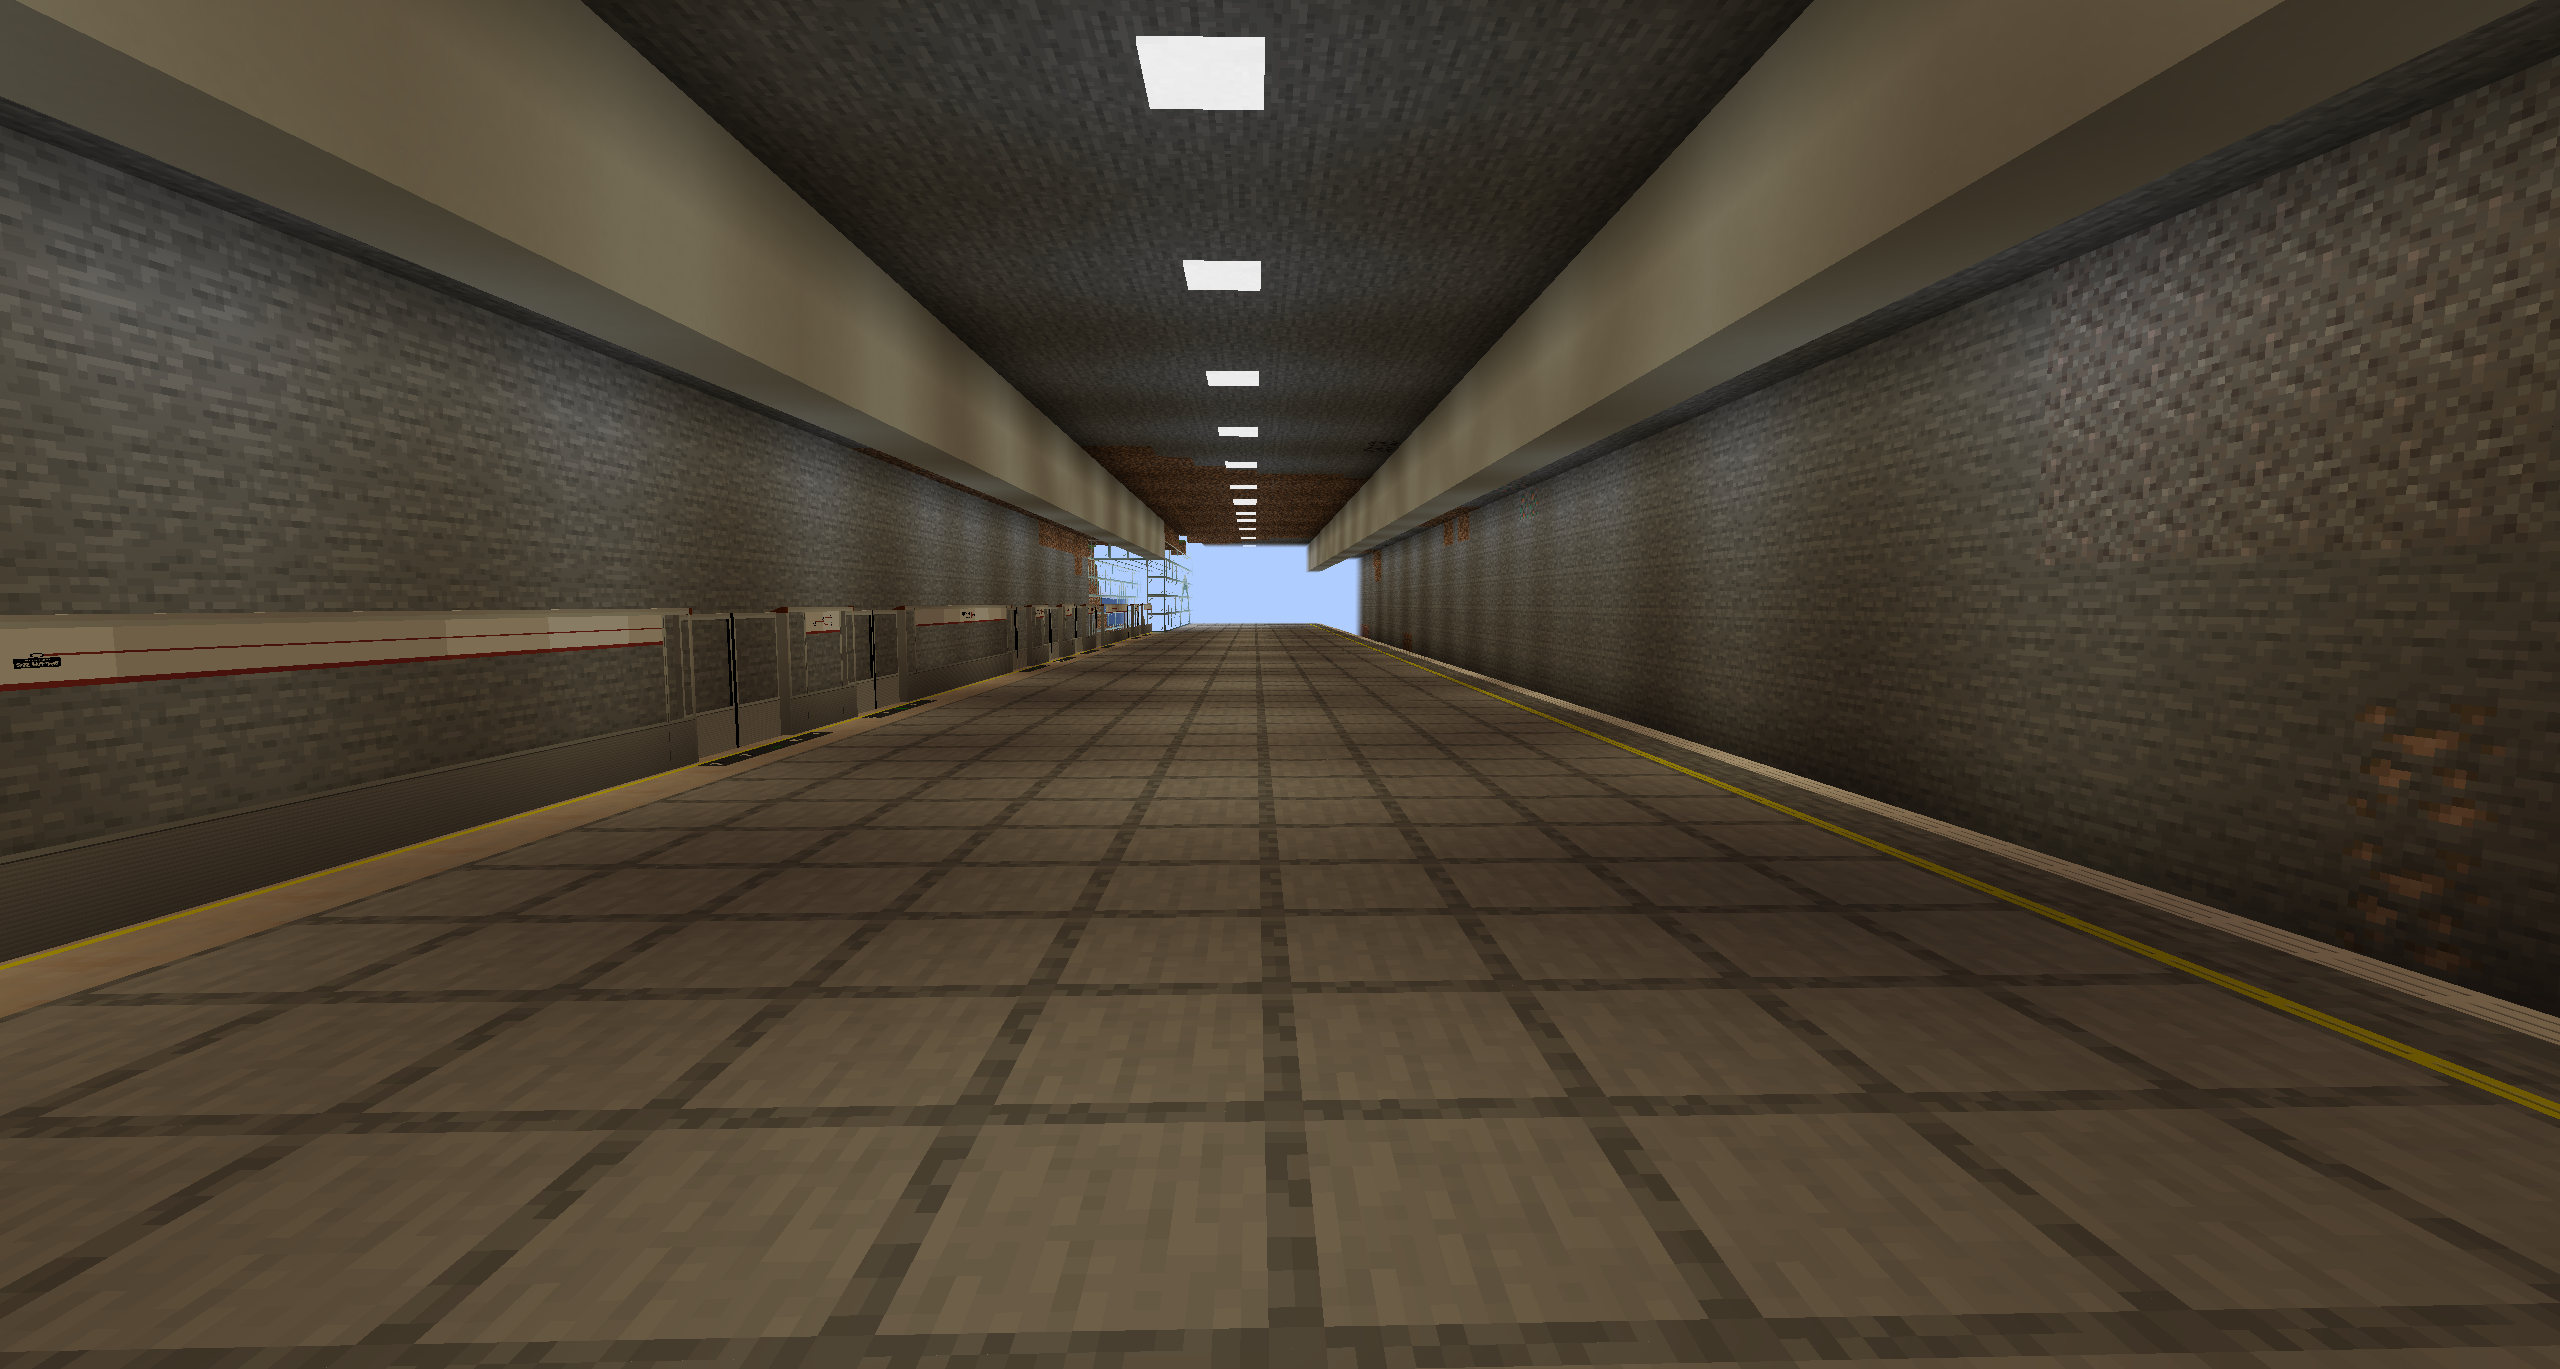
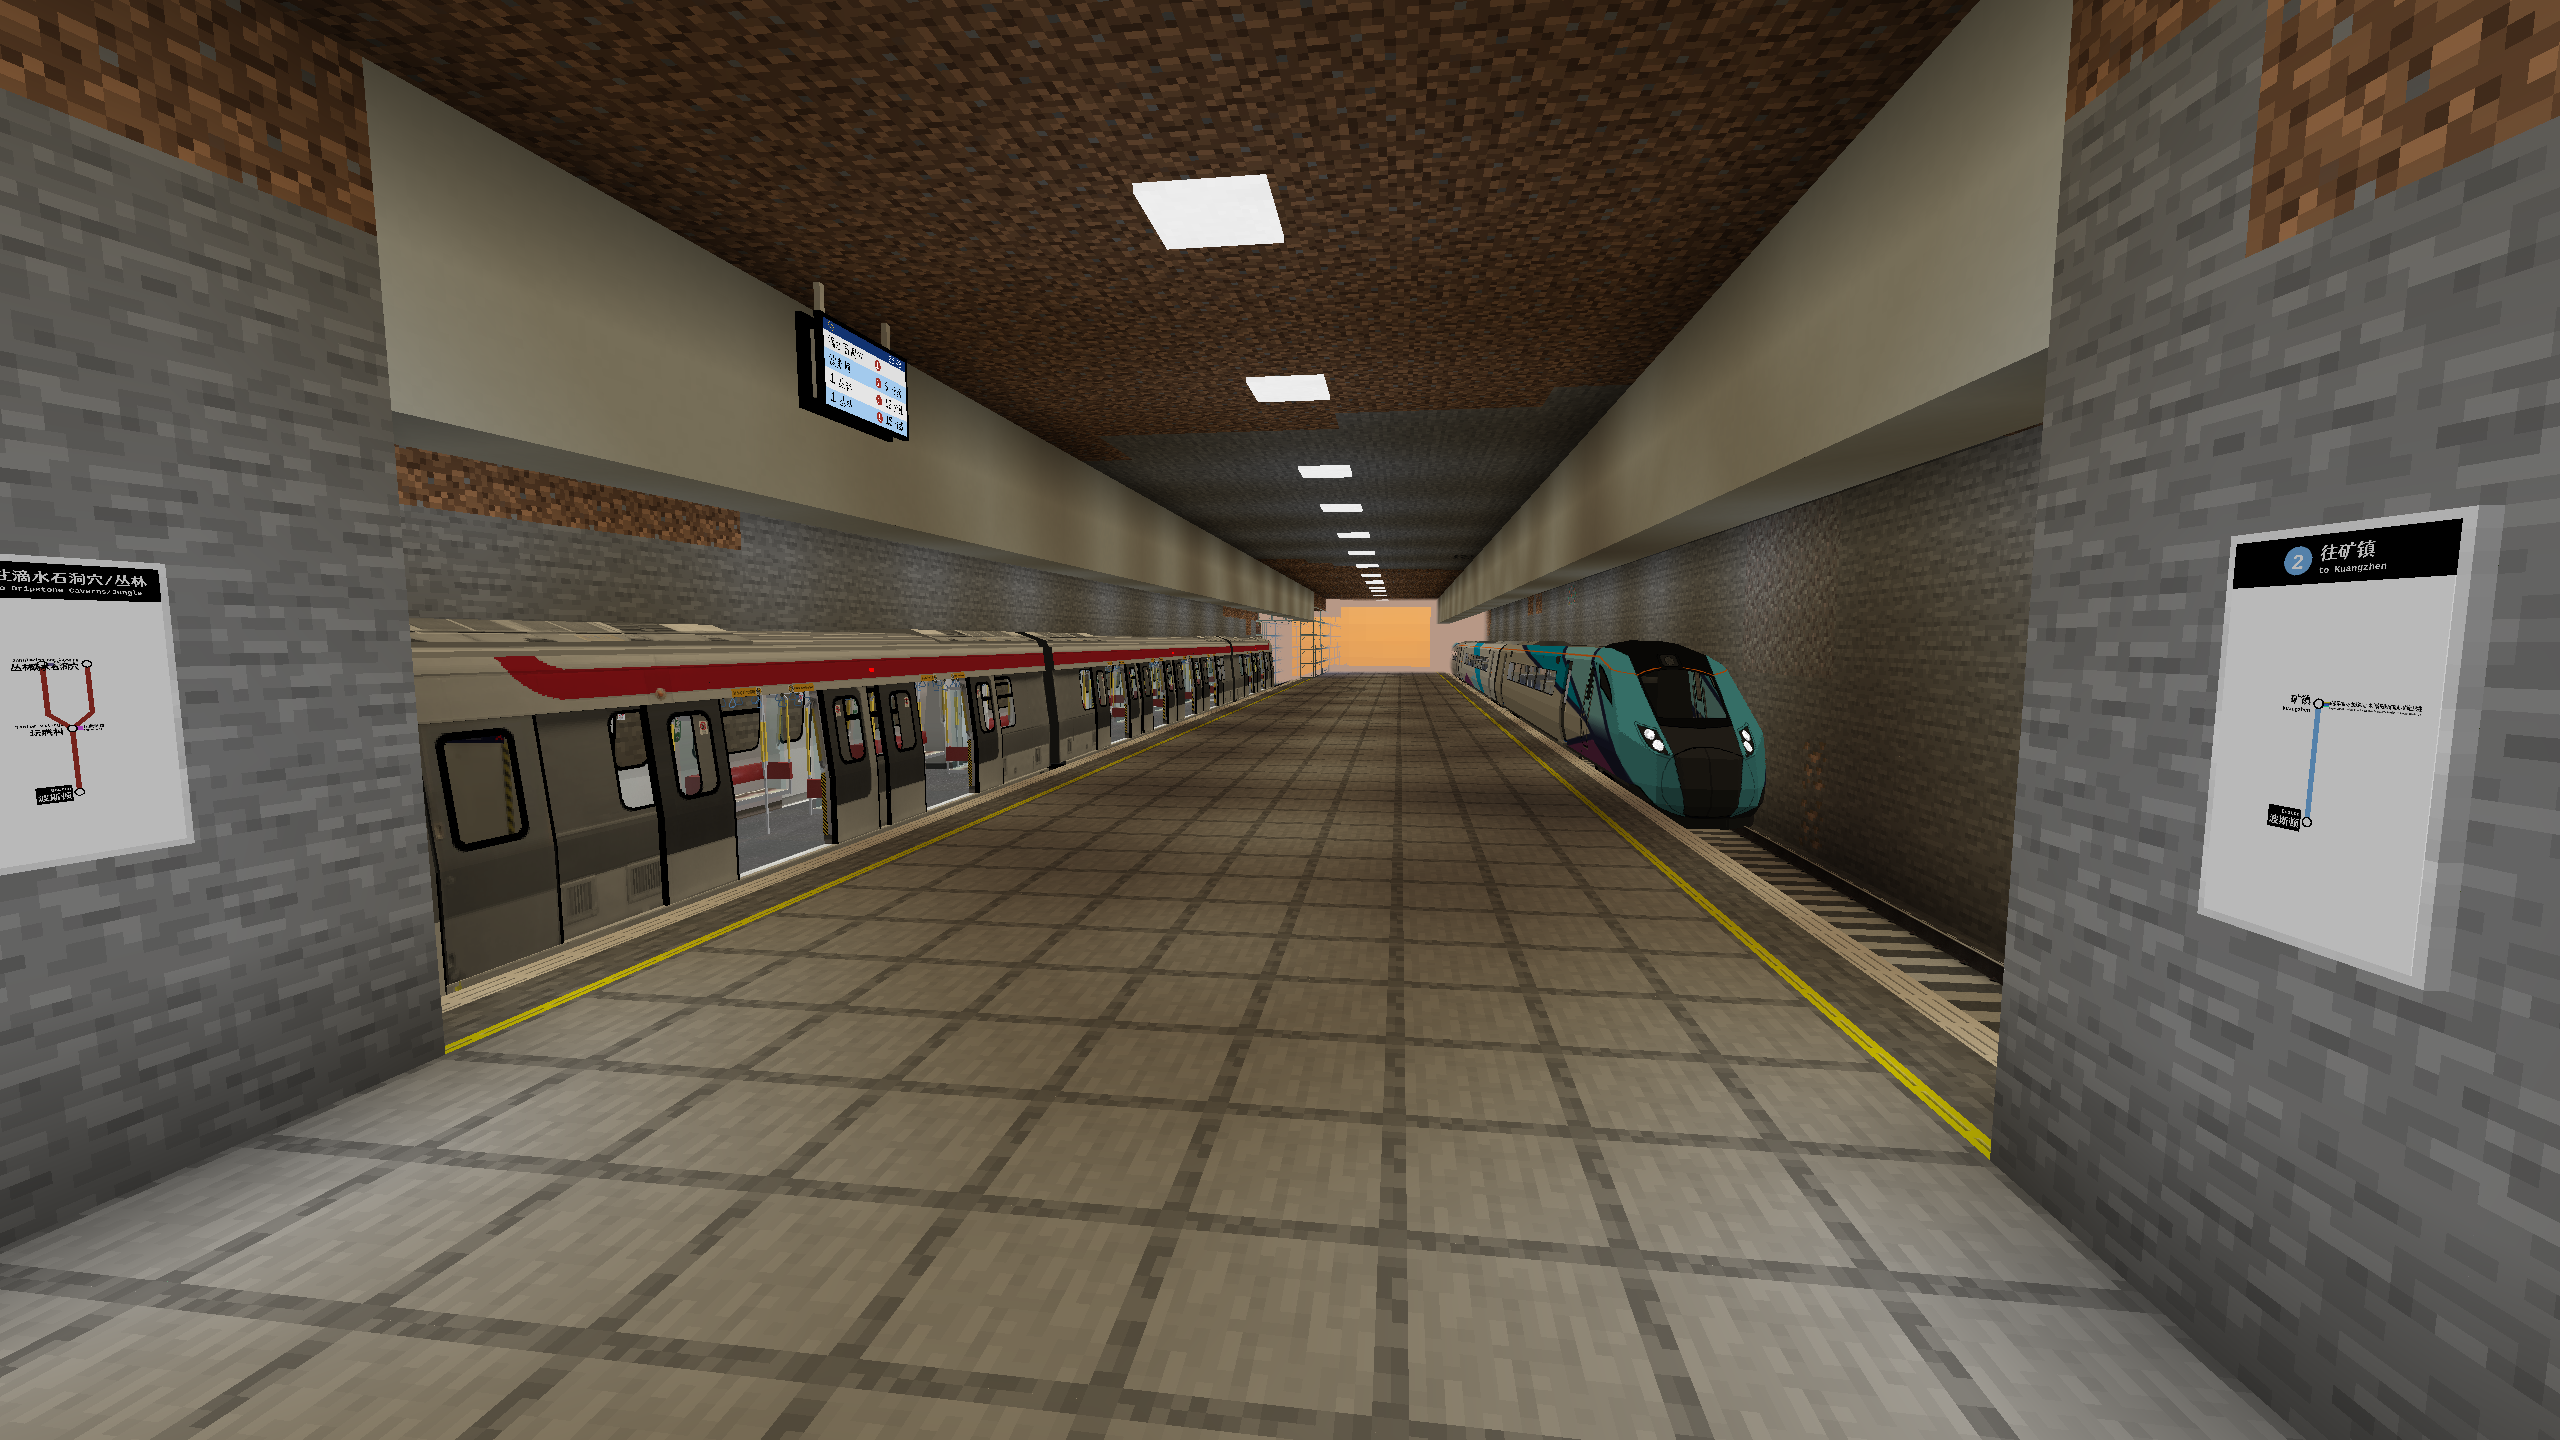
more stations

diff --git a/docs/stations.md b/docs/stations.md
@@ -7,38 +7,46 @@ Here is the list of all the stations and lines in my transit world. They are cat
     The image links look better in light mode if you prefer
 
 [Line 1](../lines/lineone) (funmorning metro):  
+  
 - [Mountains](mountains/)  
 - [Lakeside Forest](lakesideforest/)  
 - [Crumble Mountain](crumble_mountain/)  
 - [Thompson Road](thompson_road/) (Under Construction)  
 
 Line 2 (funmorning metro):  
+  
 - [Spawn](spawn/)  
 - [Mountains](mountains/)  
 
 Line 3 (funmorning metro):  
+  
 - [Beach](beach/)  
 - [Oaklands](oaklands/)  
 
 Airport APM (funmorning metro):  
+  
 [![Airport Terminal 1](assets/gallery/airportapm/airportterminalone.png){ width="380" }](airport_terminal_one/)  
 [![Mountains](assets/gallery/airportapm/mountains.png){ width="380" }](mountains/)  
 
 Home APM (funmorning metro):  
+  
 [![Home](assets/gallery/homeapm/home.png){ width="380" }](home/)  
 [![Mountains](assets/gallery/homeapm/mountains.png){ width="380" }](mountains/)  
 
 Fast Line (funmorning metro):  
+  
 [![Forest](assets/gallery/fastline/forest.png){ width="380" }](forest/)  
 [![View](assets/gallery/fastline/view.png){ width="380" }](view/)  
 [![Mountains](assets/gallery/fastline/mountains.png){ width="380" }](mountains/)  
 
 Village Express (funmorning metro):  
-[![Forest](assets/gallery/villageexpress/forest.png){ width="380" }](forest/) 
+  
+[![Forest](assets/gallery/villageexpress/forest.png){ width="380" }](forest/)  
 [![Village](assets/gallery/villageexpress/village.png){ width="380" }](village/)  
 
 Mountains-Kiyama Railway (Lanna Railway):  
 Any station with the :material-train: icon is stopped on the Mountains Kiyama Railway Express.  
+  
 - [Mountains](mountains/) :material-train:  
 - [Shuliu](shuliu/)  
 - [Kuangzhen](kuangzhen/) :material-train:  
@@ -46,48 +54,58 @@ Any station with the :material-train: icon is stopped on the Mountains Kiyama Ra
 - [Kiyama](kiyama/) :material-train:  
 
 Mountains-Kuangzhen East Railway (Lanna Railway):  
+  
 - [Mountains](mountains/)  
 - [Kuangzhen East](kuangzhen_east/)  
 
 Mountains-Sandi Railway (Lanna Railway):  
+  
 - [Mountains](mountains/)  
 - [Sandi](sandi/)  
 
 Kuangzhen-Boston Railway (Kuangzhen Railway):  
+  
 - [Kuangzhen](kuangzhen/)  
 - [Boston](boston/)  
 
 Kuangzhen East-Kuangzhen Connector (Kuangzhen Railway):  
+  
 - [Kuangzhen East](kuangzhen_east/)  
 - [Kuangzhen](kuangzhen/)  
 
 Line 1 (Kuangzhen Railway):  
+  
 - [Boston](boston/)  
-- Tantem Village  
-The line then splits into two going to Jungle or Dripstone Caverns.  
+- [Tantem Village](tantem_village/)  
+The line then splits into two going to [Jungle](jungle/) or Dripstone Caverns.  
 
 Kuangzhen Loop (Kuangzhen Boats):  
+  
 - Two Ravines  
 - Big Hole  
 - Kuangzhen Village  
 - [Kuangzhen](kuangzhen/)  
 
 TANTEM TEST (Kuangzhen Boats):  
-- Tantem Village  
+
+- [Tantem Village](tantem_village/)  
 - Tantem Cave  
 
 Mountains-Kiyama Railway Extension (Lanna Railway Extention):  
+  
 - [Kiyama](kiyama/)  
 - New Lush Caves  
 - Lush Caves  
 
 Second Mountains-Kiyama Railway Extension (Lanna Railway Extention):  
+  
 - [Kiyama](kiyama/)  
 - Kishimidō  
 - Snowveil  
 
 Kishimidō-Tantem Railway (Hanano Railway - Sendai Area):  
+  
 - Kishimidō  
 - Shirin-mon  
-- Jungle  
-- Tantem Village (contruction not started)  
+- [Jungle](jungle/)  
+- [Tantem Village](tantem_village/) (contruction not started)  

diff --git a/docs/stations/tantem_village.md b/docs/stations/tantem_village.md
@@ -1,0 +1,26 @@
+# Tantem Village Station
+
+![Tantem Village Station](../assets/gallery/tantem_village/tantem_village.png){ width="750" }
+
+Tantem Village Station (Chinese: 坛腾村站) is a station on the Line 1 and Tantem Test located in the Kuangzhen area. It was opened around October 2025.
+
+## History
+
+Named after the village nearby, it is the third biggest station in Kuangzhen and will have a transfer in the Kishimodo-Tantem Railway soon.
+
+## Gallery
+
+<figure markdown="span">
+	![Concourse](../assets/gallery/tantem_village/concourse.png){ width="750" }
+	<figcaption>Concourse</figcaption>
+</figure>
+
+<figure markdown="span">
+	![Platforms](../assets/gallery/tantem_village/platforms.png){ width="750" }
+	<figcaption>Platforms</figcaption>
+</figure>
+
+<figure markdown="span">
+	![Dock](../assets/gallery/tantem_village/dock.png){ width="750" }
+	<figcaption>Dock</figcaption>
+</figure>

diff --git a/docs/stations/jungle.md b/docs/stations/jungle.md
@@ -1,0 +1,23 @@
+# Jungle Station
+
+![Jungle Station](../assets/gallery/jungle/jungle.png){ width="750" }
+
+Jungle Station (Chinese: 丛林站) is a station on Line 1 and the Kishimidō-Tantem Line in the Kuangzhen area.  It was opened around October 2025.
+
+## History
+Named after the jungle at the exit, it is the only station to have no immigration when going to Sendai. This will be changed soon. (1) 
+{ .annotate }
+
+1.  As of January 11, 2026 it has not changed yet.
+
+## Gallery
+
+<figure markdown="span">
+	![Concourse/Kishimidō-Tantem Line Platform](../assets/gallery/jungle/concourse.png){ width="750" }
+	<figcaption>Concourse/Kishimidō-Tantem Line Platform</figcaption>
+</figure>
+
+<figure markdown="span">
+	![Platform (Line 1)](../assets/gallery/jungle/platform_line_one.png){ width="750" }
+	<figcaption>Platform (Line 1)</figcaption>
+</figure>

diff --git a/docs/stations/thompson_road.md b/docs/stations/thompson_road.md
@@ -1,5 +1,7 @@
 # Thompson Road Station
 
-![Exit A of Airport Terminal 1 Station](../assets/gallery/thompson_road/wip.png){ width="750" }
+![Thompson Road Station](../assets/gallery/thompson_road/wip.png){ width="750" }
 
 Thompson Road Station (Chinese: 坦森路站) is a station on Line 1 in the Shanlu area. It was currently a work in progress.  It was opened around the start of September 2025 but was closed shortly after due to traffic issue in the trains.
+
+*This article about a subway station in Shanlu needs more info. You can help expand it by clicking [here](../expansion.md).*

diff --git a/docs/stations/village.md b/docs/stations/village.md
@@ -1,6 +1,6 @@
 # Village Station
 
-![View Station](../assets/gallery/village/village.png){ width="750" }
+![Village Station](../assets/gallery/village/village.png){ width="750" }
 
 Village Station (Chinese: 村庄站) is a station on the Village Express Line located in the Shanlu area. It was opened around late August 2025.
 

diff --git a/docs/stations/boston.md b/docs/stations/boston.md
@@ -2,7 +2,7 @@
 
 ![Boston Station](../assets/gallery/boston/boston.png){ width="750" }
 
-Boston Station (Chinese: 波斯顿站) is a station on the Fast Line in the Kuangzhen area. 
+Boston Station (Chinese: 波斯顿站) is a station on Line 1 and the Kuangzhen-Boston Railway in the Kuangzhen area. 
 
 ## History
 
